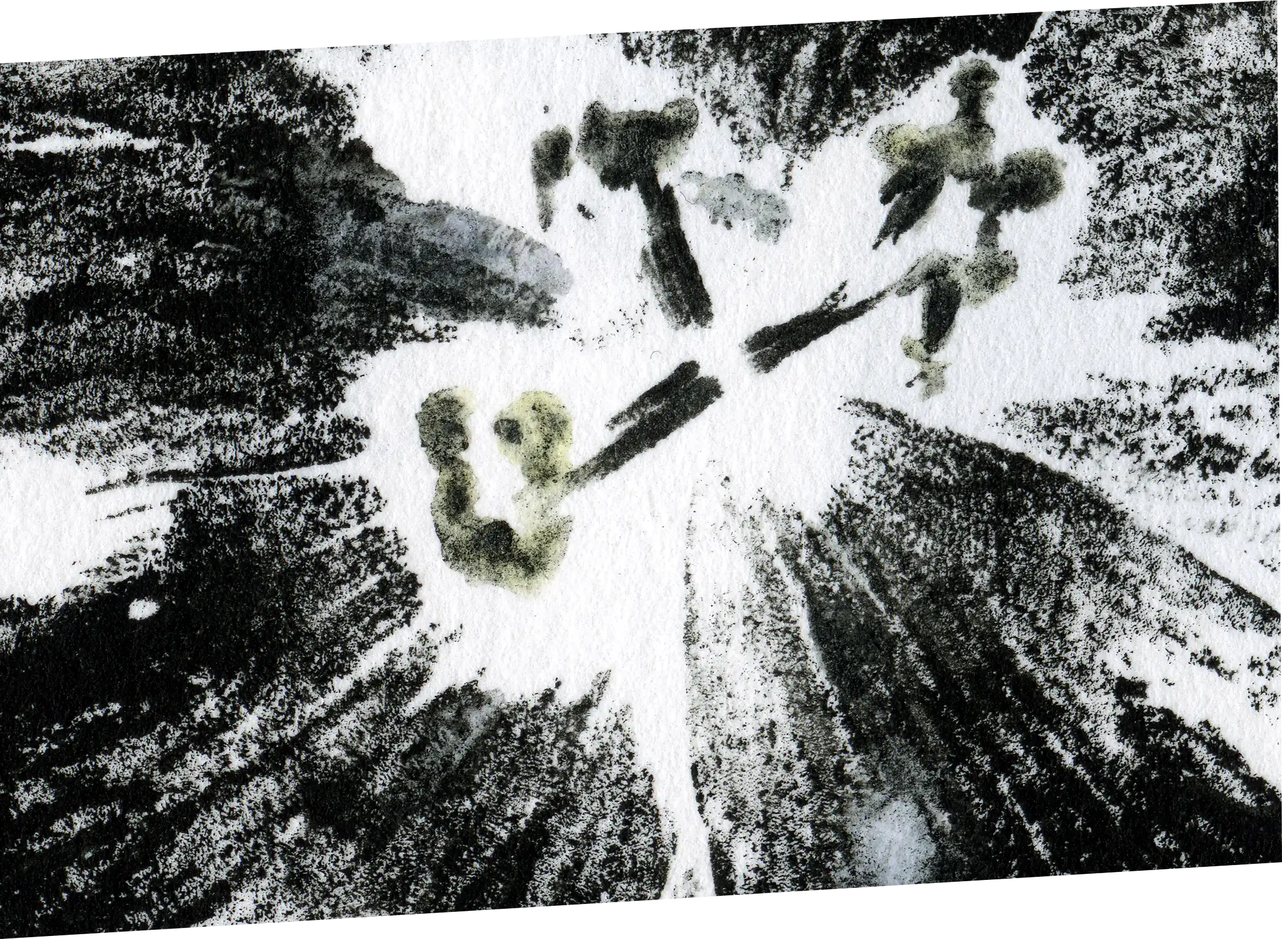
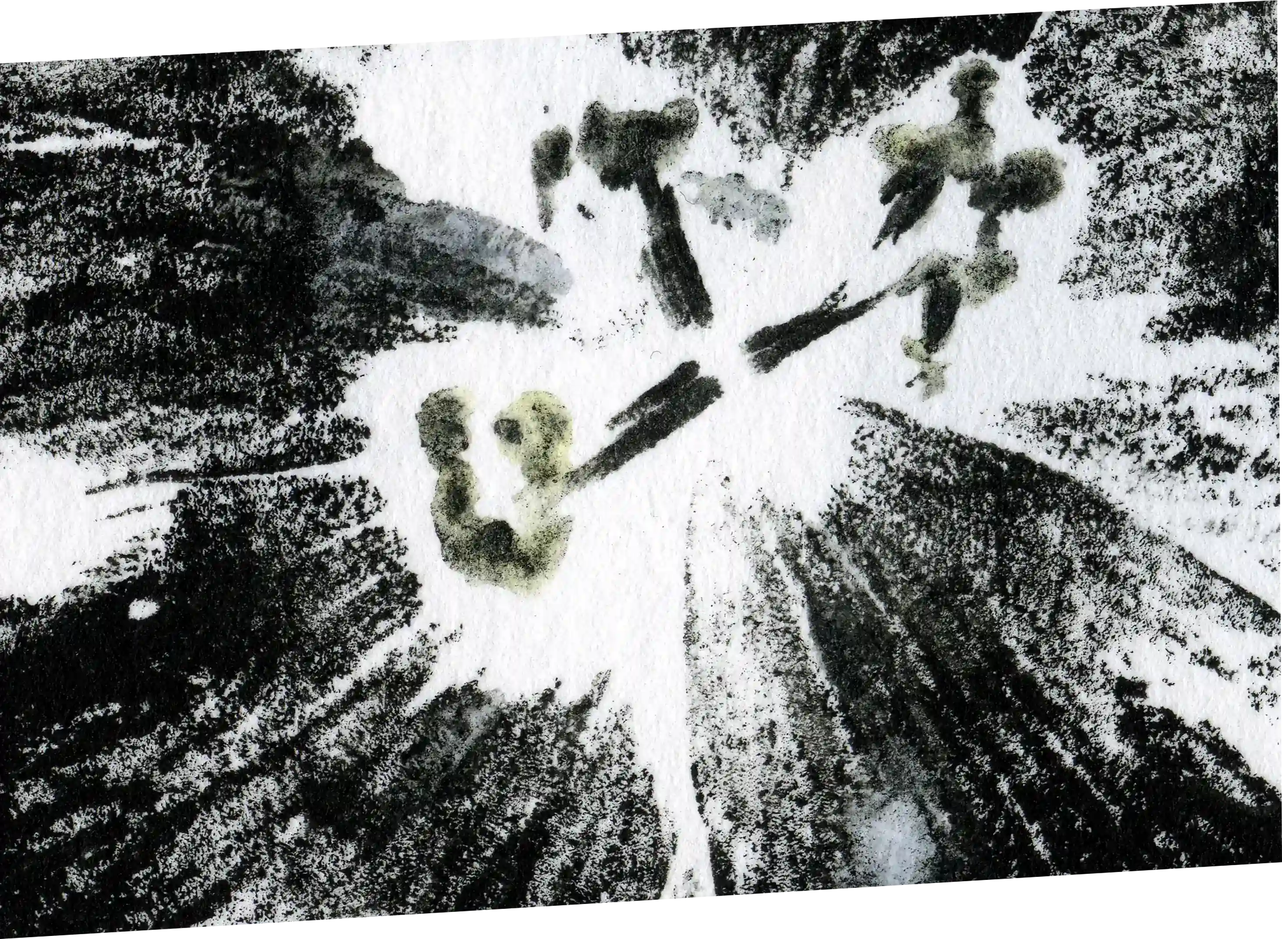
bilder

diff --git a/index.html b/index.html
@@ -106,7 +106,7 @@
 
       <div class="projekte__projekt projekte__projekt--animotion">
         <a href="Motion-graphics/motion.html">
-            <img src="img2/FEHLER.gif">
+            <img src="img2/FEHLER_small.gif">
         </a>
      </div>
 
